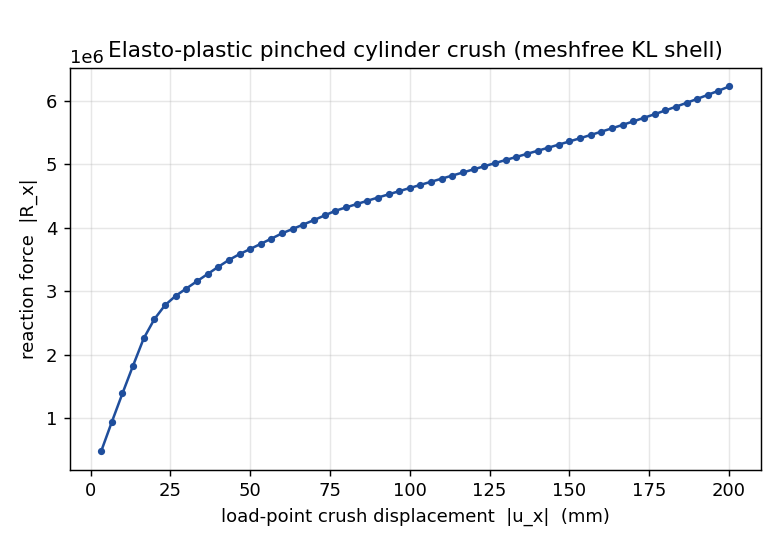
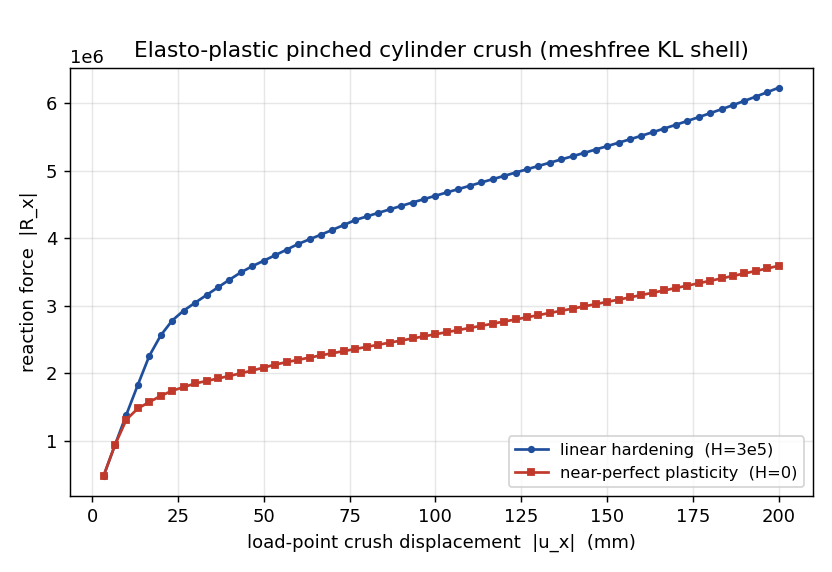
#66 Fig18 RESULT: hardening vs perfect-plasticity crush curves overlaid
Two full 200mm displacement-controlled crushes of the finite-deformation elasto-plastic meshfree
KL shell, overlaid in fig18.png: linear hardening (H=3e5) rises to 6.2e6; near-perfect plasticity
(H=0, Y0=1.2e4) shows the plastic-hinge LIMIT-LOAD plateau (~3.6e6, only gently rising from
geometric stiffening). Both share the elastic line + sharp yield knee -- the correct elasto-
plastic finite-deformation physics. plot_fig18.py overlays whichever curve files are present.

diff --git a/applications/meshfree_kl_shell/plot_fig18.py b/applications/meshfree_kl_shell/plot_fig18.py
@@ -1,17 +1,35 @@
 #!/usr/bin/env python3
-"""Plot the elasto-plastic pinched-cylinder load-displacement curve (Fig 18 analog)."""
-import sys, numpy as np
+"""Plot the elasto-plastic pinched-cylinder load-displacement curve(s) (Fig 18 analog).
+
+Reads fig18_curve.txt (always) and, if present, fig18_hardening_curve.txt /
+fig18_perfect.txt to overlay the hardening vs near-perfect-plasticity responses.
+"""
+import os, numpy as np
 import matplotlib; matplotlib.use("Agg")
 import matplotlib.pyplot as plt
-d = np.loadtxt("fig18_curve.txt")
-if d.ndim == 1: d = d.reshape(1, -1)
-u = -d[:,0]            # crush displacement (mm, positive inward)
-R = -d[:,1]            # reaction (positive = resisting)
-fig, ax = plt.subplots(figsize=(6,4.2))
-ax.plot(u, R, '-o', ms=3, lw=1.4, color="#1f4e9c")
+
+def load(fn):
+    if not os.path.exists(fn): return None
+    d = np.loadtxt(fn)
+    if d.size == 0: return None
+    if d.ndim == 1: d = d.reshape(1, -1)
+    return -d[:,0], -d[:,1]      # crush displacement (mm), resisting reaction
+
+fig, ax = plt.subplots(figsize=(6.4,4.4))
+series = [("fig18_hardening_curve.txt", "linear hardening  (H=3e5)", "#1f4e9c", "-o"),
+          ("fig18_perfect.txt",         "near-perfect plasticity  (H=0)", "#c0392b", "-s")]
+plotted = False
+for fn, lab, col, st in series:
+    r = load(fn)
+    if r is None: continue
+    ax.plot(r[0], r[1], st, ms=3, lw=1.5, color=col, label=lab); plotted = True
+if not plotted:
+    r = load("fig18_curve.txt")
+    if r is not None: ax.plot(r[0], r[1], '-o', ms=3, color="#1f4e9c", label="crush"); plotted = True
+
 ax.set_xlabel("load-point crush displacement  |u_x|  (mm)")
 ax.set_ylabel("reaction force  |R_x|")
 ax.set_title("Elasto-plastic pinched cylinder crush (meshfree KL shell)")
-ax.grid(True, alpha=0.3)
+ax.grid(True, alpha=0.3); ax.legend(loc="lower right", fontsize=9)
 fig.tight_layout(); fig.savefig("fig18.png", dpi=130)
-print(f"wrote fig18.png  ({len(u)} points, u_max={u.max():.1f}mm, R_max={R.max():.3e})")
+print("wrote fig18.png")
